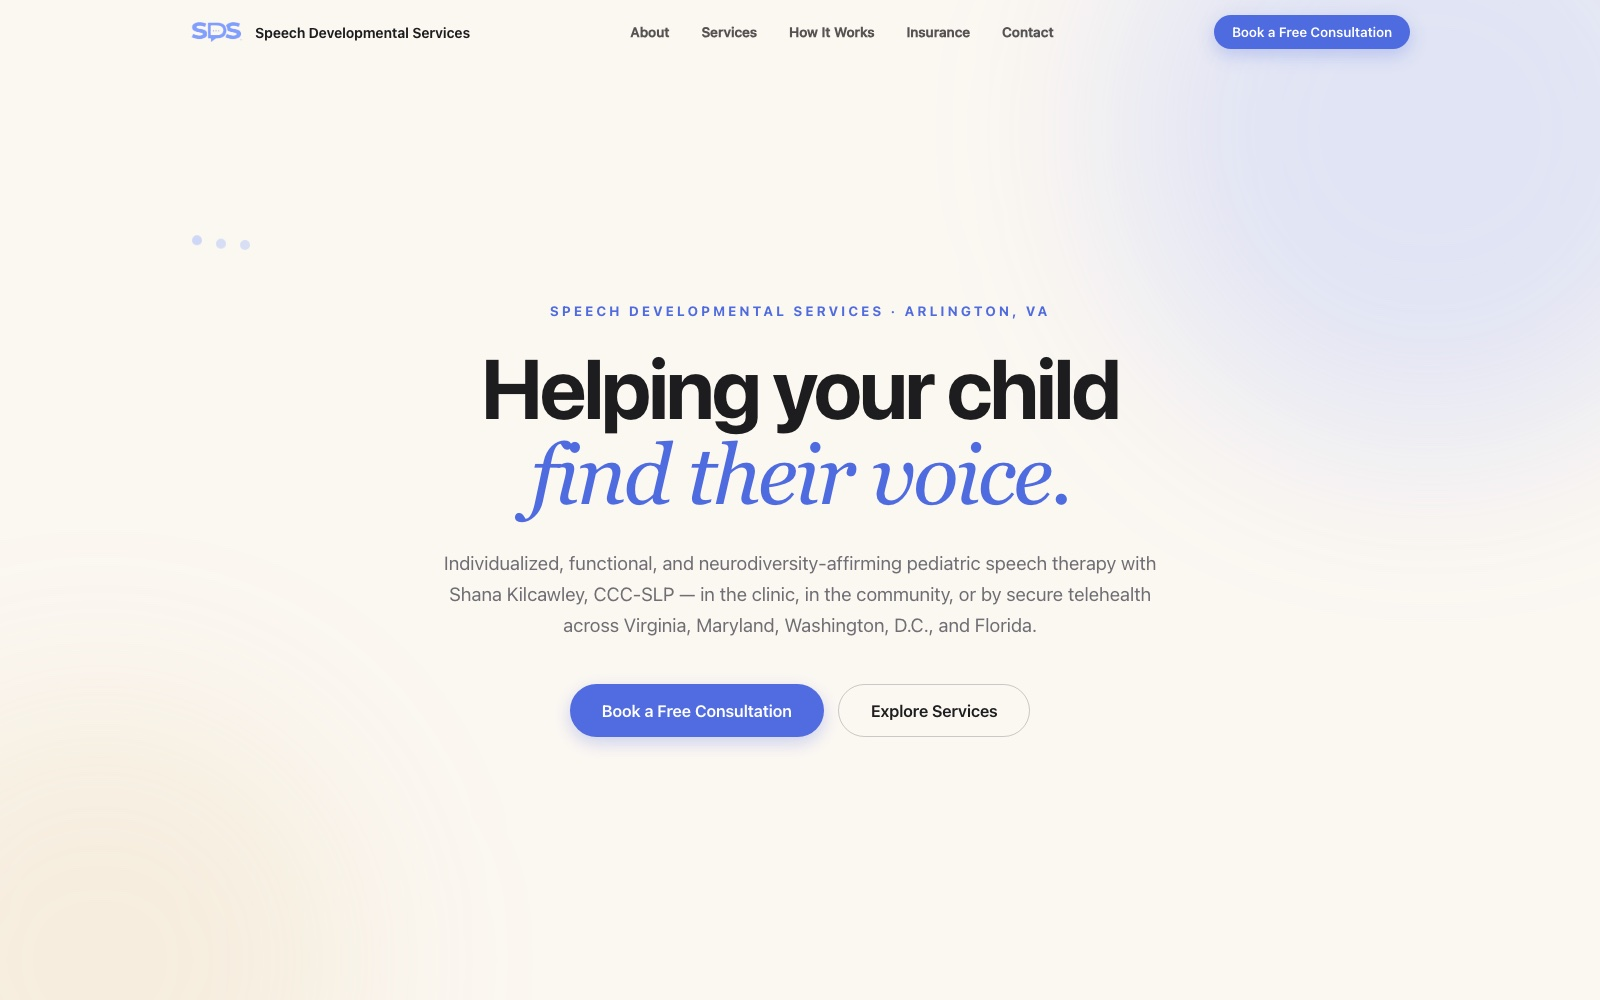
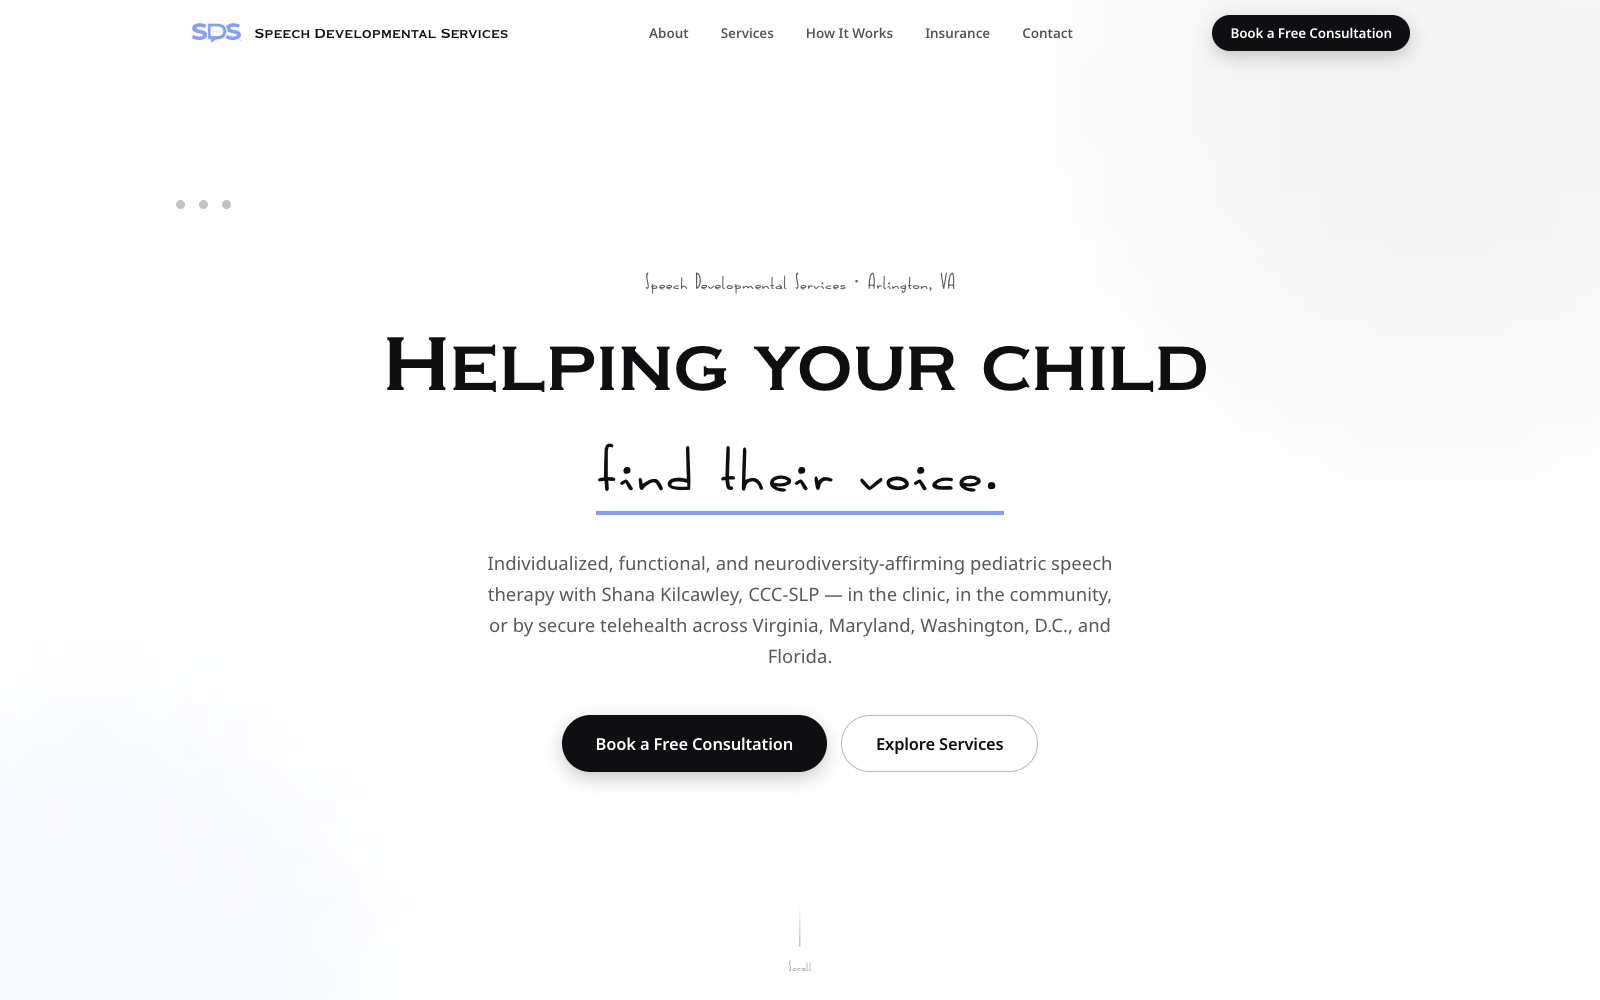
Refresh Speech Developmental Services card for monochrome redesign

diff --git a/src/content/data.js b/src/content/data.js
@@ -136,9 +136,9 @@ export const projects = [
     title: 'Speech Developmental Services',
     year: '2026',
     category: 'Client Work · Web',
-    blurb: 'A minimal, Apple-polished site for a pediatric speech-language pathologist — opened by a 3D pen handwriting her title.',
+    blurb: 'A monochrome editorial site for a pediatric speech-language pathologist — opened by a 3D pen drawing her logo in ink.',
     description:
-      'A professional single-page site for Speech Developmental Services (Shana Kilcawley, CCC-SLP), a pediatric speech therapy practice in Arlington, VA. The intro is a custom-built handwriting engine: a stroke-font composer draws "Speech Language Pathologist" in ink while a three.js fountain pen tracks the stroke tip in real time. The rest is quiet Apple-style design — frosted glass nav, pill buttons, scroll-driven reveals with Lenis smoothing — with the brand palette sampled directly from her logo and every word and image sourced from her intake document. Built with React + Vite and deployed on GitHub Pages.',
+      'A professional single-page site for Speech Developmental Services (Shana Kilcawley, CCC-SLP), a pediatric speech therapy practice in Arlington, VA. The intro is a custom stroke-drawing engine: her logo is auto-traced into vector contours (marching squares over the PNG) and a three.js fountain pen draws the outline in real time before it crossfades into the periwinkle mark. The design is ink-on-paper editorial — white page, near-black type in four self-hosted Google Fonts, hairline cards — where color only appears on touch: a grayscale portrait blooms to color, icon tiles invert, insurer dots flush their brand colors. Built with React + Vite and deployed on GitHub Pages.',
     tags: ['React', 'Three.js', 'Framer Motion', 'Vite'],
     media: asset('speech-developmental-services.jpg'),
     url: 'https://ethan-goldstein.github.io/speech-developmental-services/',
